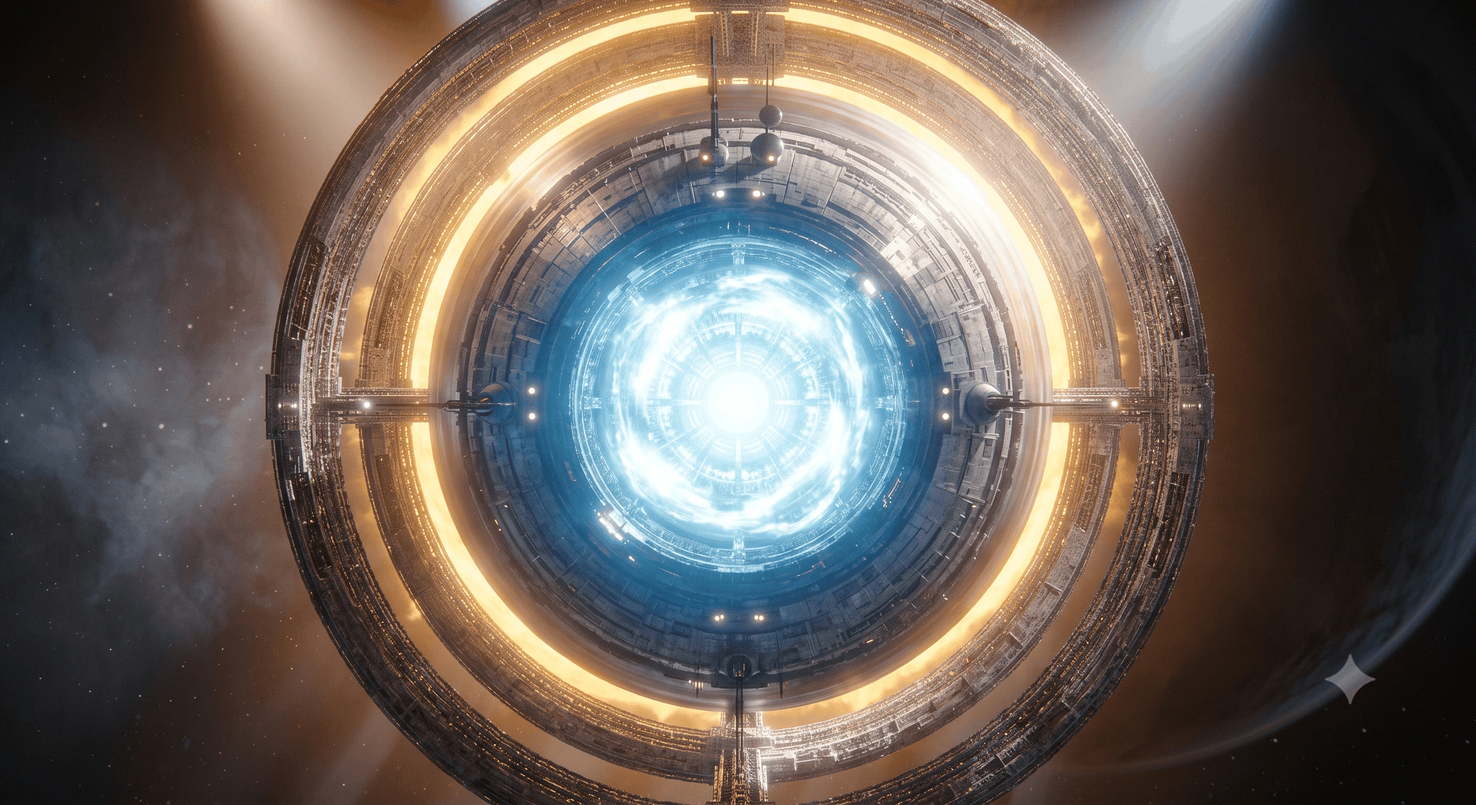
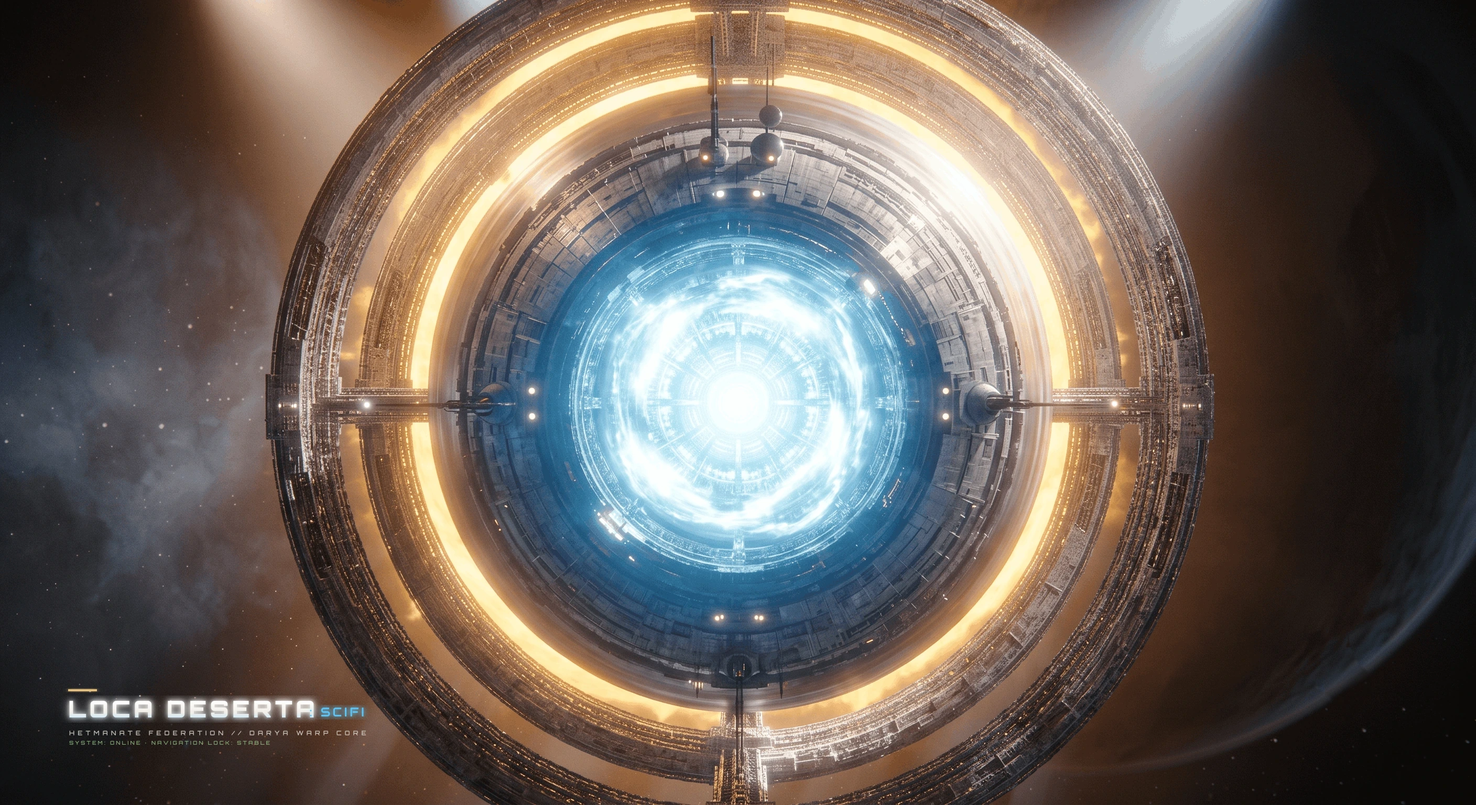
Blend "Loca Deserta: SciFi" title telemetry into default background

Changed region(s): [[0.0312, 0.8438, 0.25, 0.9375], [0.9062, 0.8125, 0.9375, 0.875]]

diff --git a/README.md b/README.md
@@ -36,7 +36,7 @@ Active window borders run a 45° gradient from plasma blue to brass gold.
 
 All wallpapers are DARYA-class ship art from the universe, some blended:
 
-1. `01-darya-core` — the warp core ring, untouched
+1. `01-darya-core` — the warp core ring with blended title telemetry
 2. `02-darya-warp-gate` — a DARYA passing through its own enlarged core ring
 3. `03-darya-sunburn` — engines lit against a star, untouched
 4. `04-darya-blueprint` — technical drawing tinted plasma blue
